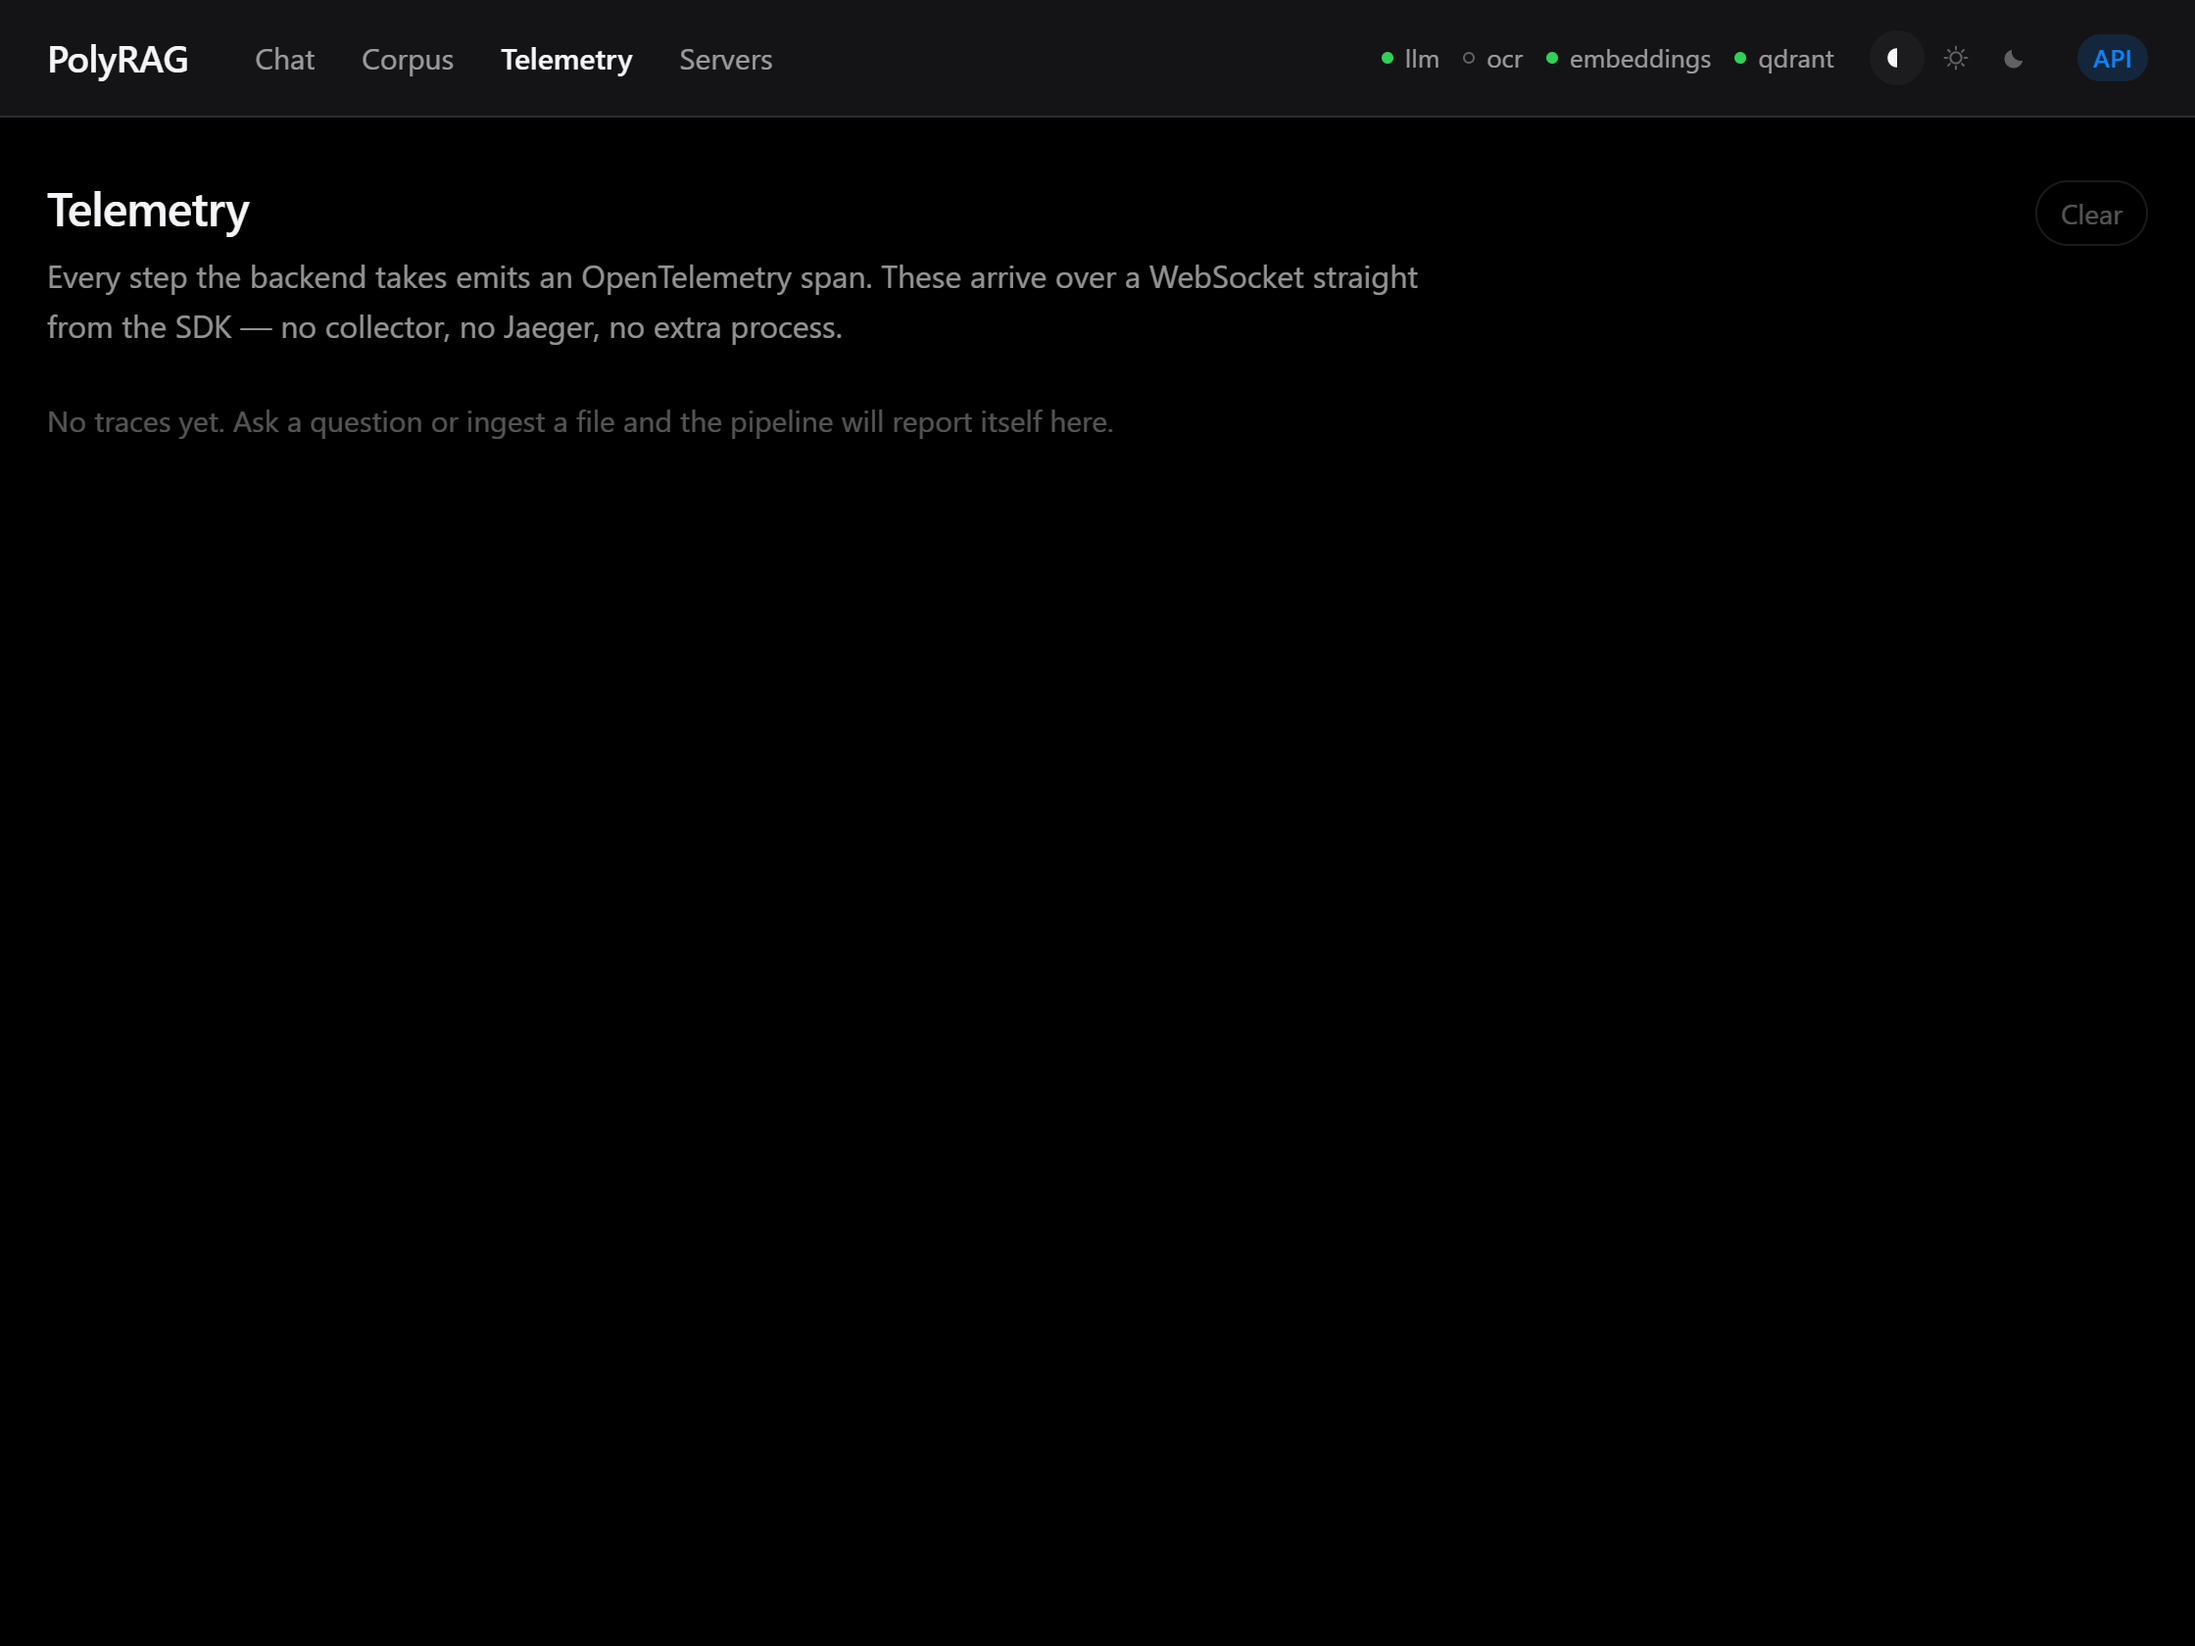
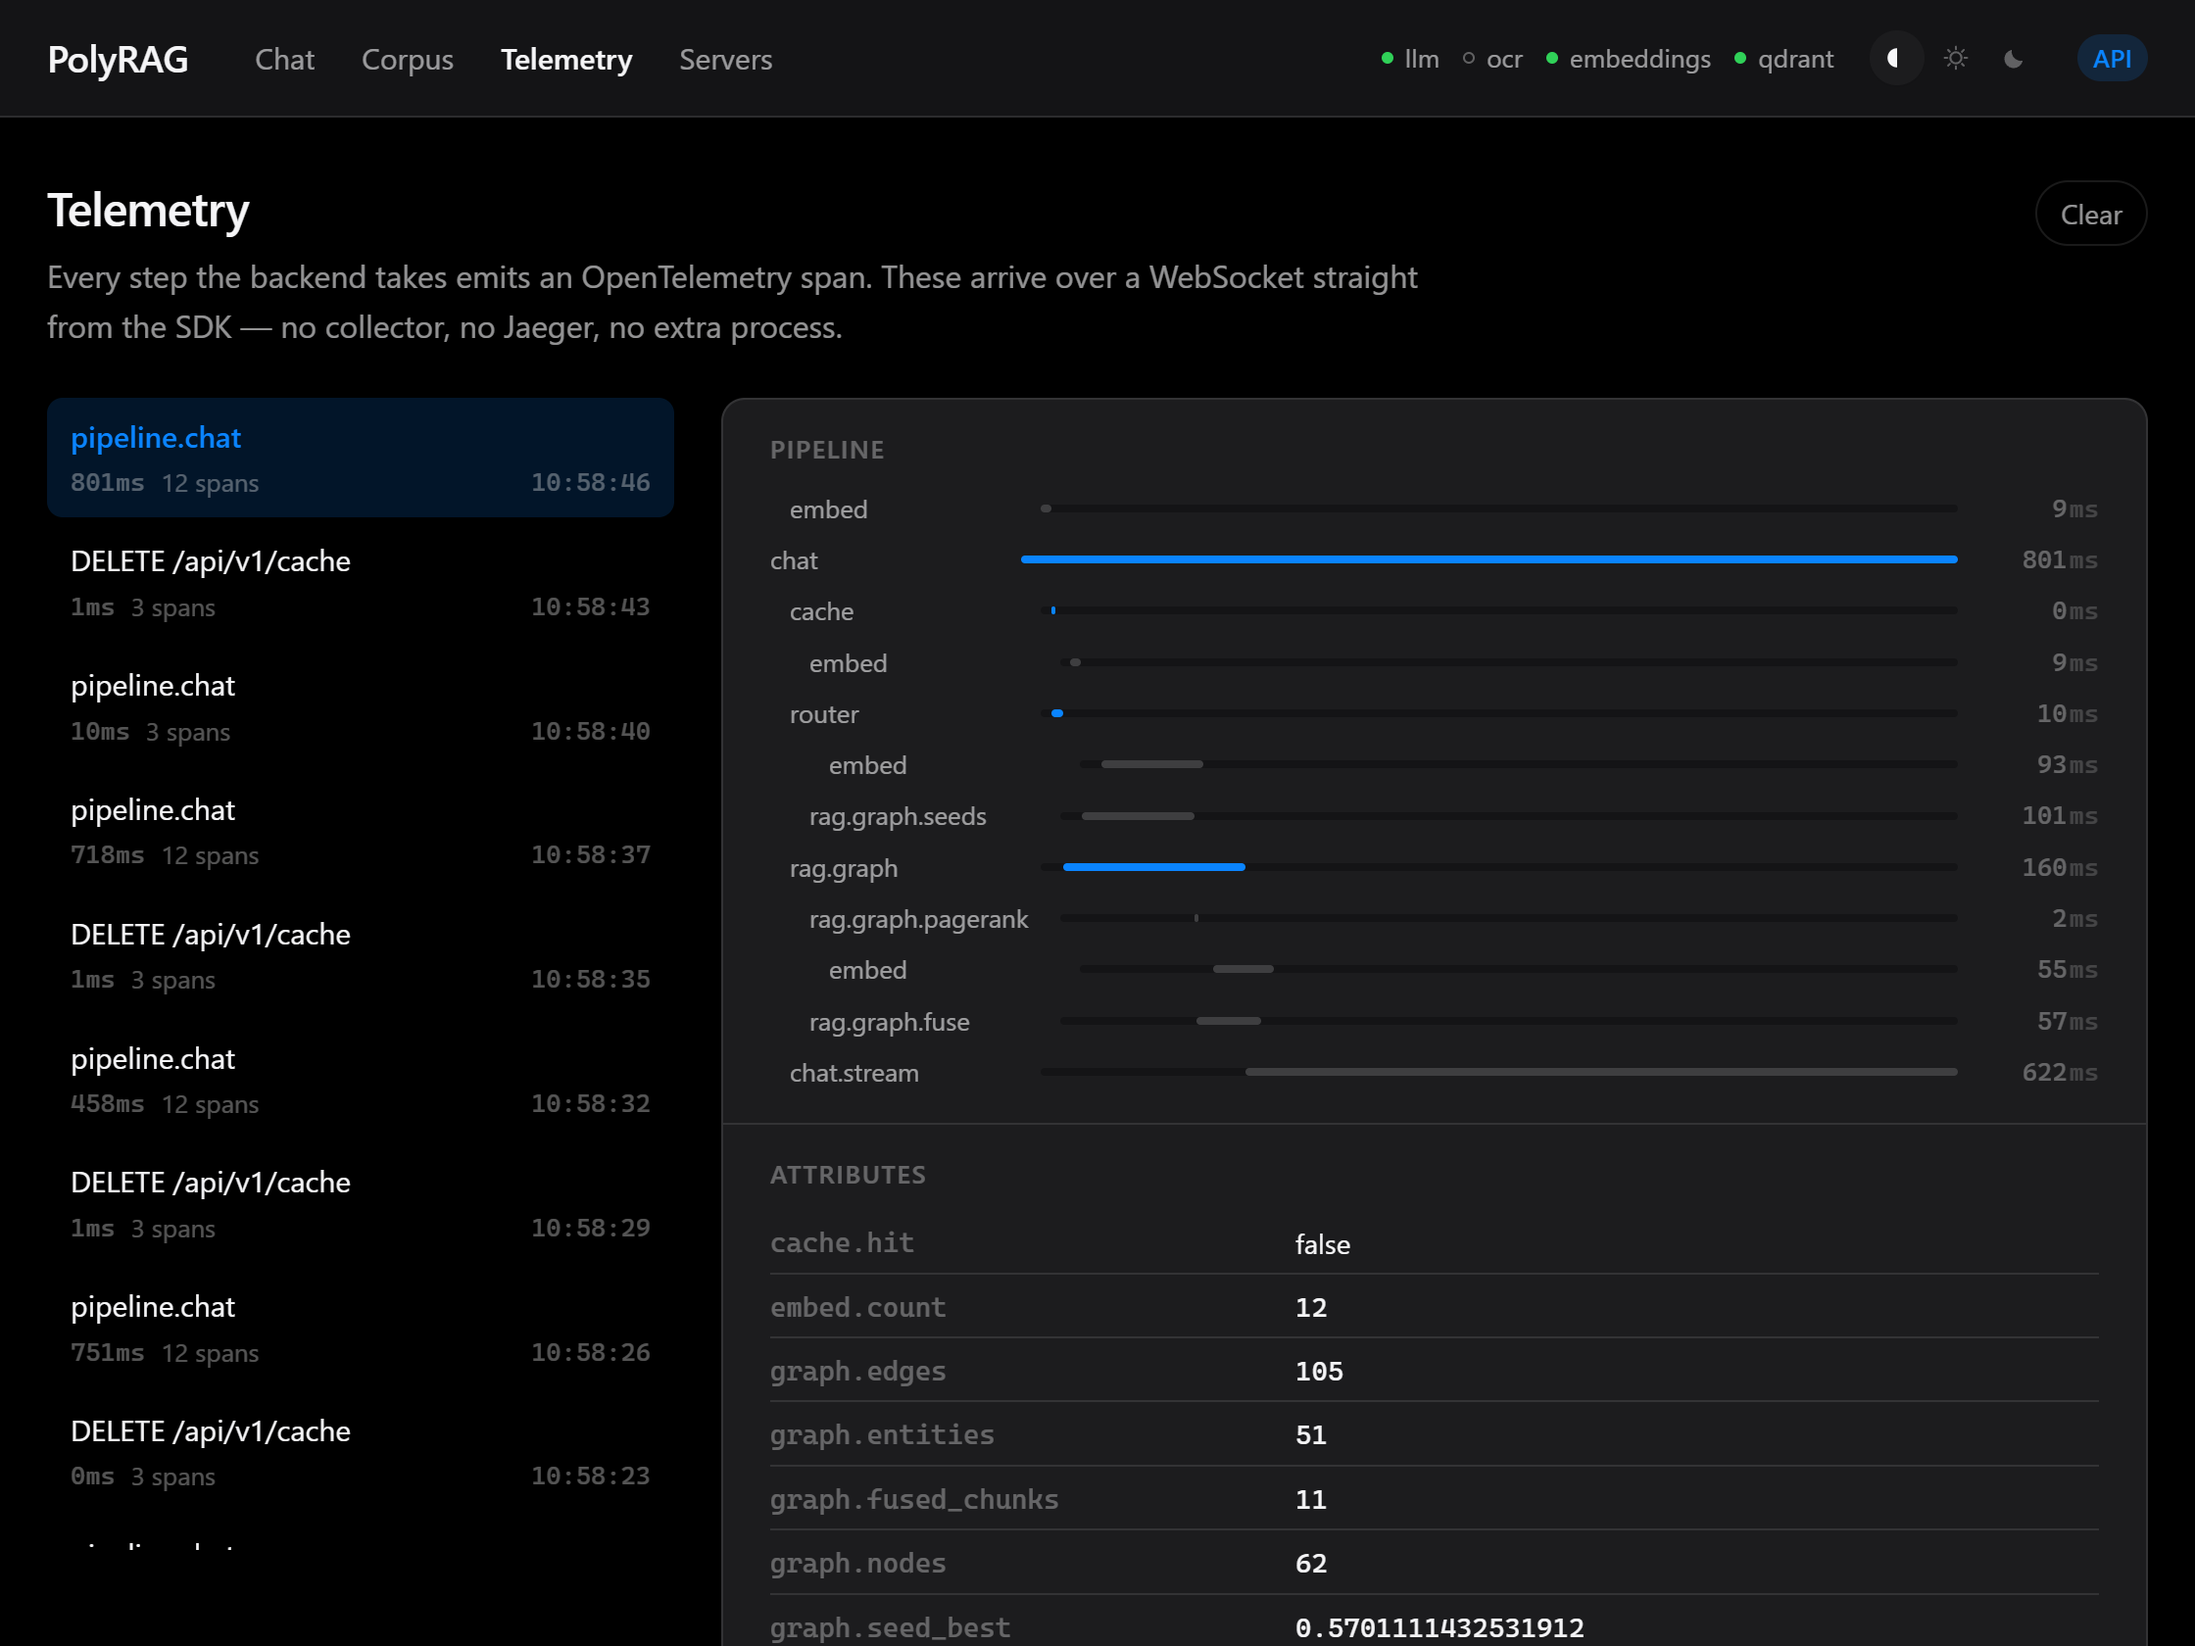
docs: make the telemetry screenshot show something
It was captured on a cold page and showed the empty state, then sat in
the repository unreferenced. Shots can now ask a question and navigate
elsewhere before the capture, which is what that view needed: it has
nothing to show until the pipeline has run.

The image earns its place now. It carries the trace list, the span
waterfall and the attributes behind one decision -- graph.seed_best is
the cosine that chose the walk's starting node, cache.hit says why this
request did the work instead of skipping it. It is the auditability
claim rendered rather than asserted.

diff --git a/scripts/screenshots.py b/scripts/screenshots.py
@@ -177,7 +177,7 @@ async def main() -> None:
             )
             print(f"capturando {WIDTH}x{HEIGHT} @{SCALE}x em {OUT_DIR.relative_to(ROOT)}/")
 
-            for name, path, question, repeat in SHOTS:
+            for name, path, question, repeat, after in SHOTS:
                 # Cleared before every chat shot: the previous shot leaves its
                 # question in the cache, and without this the second one is
                 # answered from RAM and the screenshot shows an empty pipeline.
@@ -189,6 +189,9 @@ async def main() -> None:
                     if repeat:
                         # Asked twice on purpose: the second one is the cache hit.
                         await ask(tab, question)
+                if after:
+                    # Some views only have anything to show once the pipeline ran.
+                    await tab.goto(f"{FRONTEND}{after}")
                 await tab.shoot(name)
     finally:
         chrome.terminate()
@@ -201,23 +204,32 @@ async def main() -> None:
 # geometry, a route decided by the gray-zone evidence stage, the corpus split,
 # and the process controls.
 SHOTS = [
-    # name, path, question (None = just load the page), ask twice for a cache hit
+    # name, path, question (None = just load the page), ask twice, navigate here before shooting
     #
     # Asked in English against a Portuguese corpus, on purpose. The answer follows
     # the question's language and the sources show the passage as it was written,
     # which is the multilingual behaviour rather than a translation step.
-    ("chat-relational", "/", "What was the total revenue of the Sudeste region?", False),
+    ("chat-relational", "/", "What was the total revenue of the Sudeste region?", False, None),
     (
         "chat-graph",
         "/",
         "Which approval policy do the orders processed by Sistema Atlas follow?",
         False,
+        None,
     ),
-    ("chat-evidence", "/", "Which database does the Orion Database replicate to?", False),
-    ("chat-cache", "/", "Who can suspend the Contrato Marco 2026?", True),
-    ("corpus", "/corpus", None, False),
-    ("servers", "/servers", None, False),
-    ("telemetry", "/telemetry", None, False),
+    ("chat-evidence", "/", "Which database does the Orion Database replicate to?", False, None),
+    ("chat-cache", "/", "Who can suspend the Contrato Marco 2026?", True, None),
+    # The telemetry view is empty until something has run, so ask first and only
+    # then navigate to it. Shooting it cold produced a picture of an empty state.
+    (
+        "telemetry",
+        "/",
+        "Who approves a purchase of seventy thousand reais?",
+        False,
+        "/telemetry",
+    ),
+    ("corpus", "/corpus", None, False, None),
+    ("servers", "/servers", None, False, None),
 ]
 
 

diff --git a/README.md b/README.md
@@ -476,6 +476,13 @@ retrieval has even finished.
 *The same question, asked twice. The second answer skips routing, retrieval and generation
 entirely: three spans and 10 ms, against roughly a second for the first.*
 
+![The Telemetry view: every trace, its spans and the attributes behind the decision](docs/screenshots/telemetry.png)
+
+*Every trace the backend produced, the span waterfall for the selected one, and the attributes that
+decided it. `graph.seed_best` is the cosine that chose the walk's starting node; `cache.hit` says
+why this request did the work instead of skipping it. This is the claim about auditability, rendered
+rather than asserted.*
+
 ![The Servers view: start and stop each model](docs/screenshots/servers.png)
 
 *Each model is its own process, running windowless. Stopping one hands its VRAM straight back,
